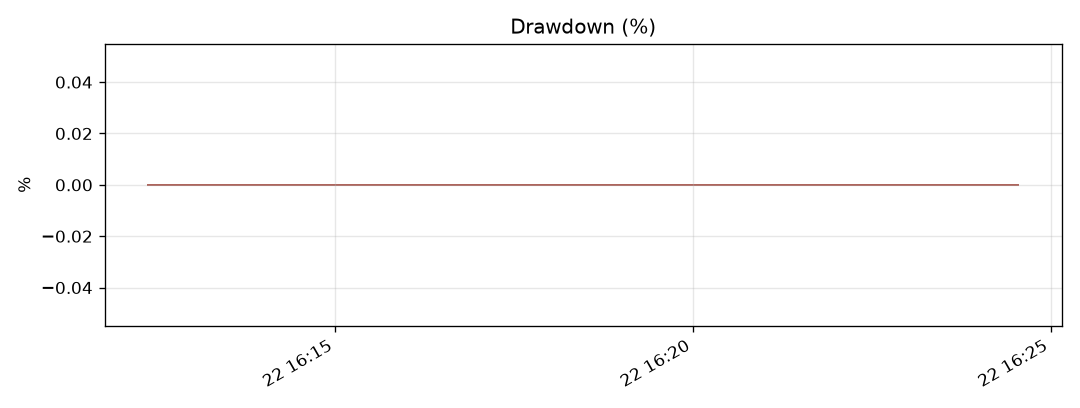
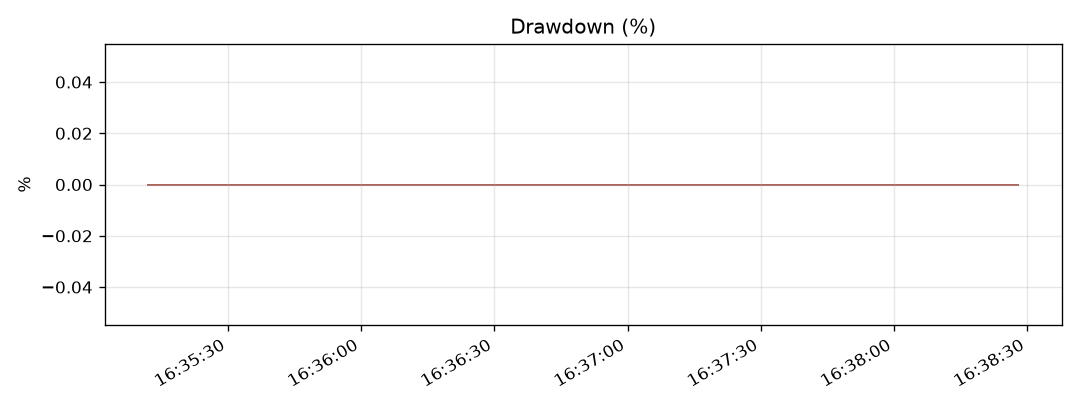
test: record a shadow cycle with public sentiment
Five fallback cycles stayed flat. Fear and Greed printed 68, CoinDesk
and Cointelegraph scored, and CryptoPanic and Reddit failed soft.

diff --git a/STRATEGY.md b/STRATEGY.md
@@ -170,7 +170,7 @@ The report's desk block is PnL after fees (mark-to-market and realized), annuali
 
 Fear & Greed was attached on every bar (lagged, range 53–78). The extreme-greed gate was left off because the ablation did not change a single trade. Walk-forward, frozen parameters, fresh 5,000,000 TMN each fold: +0.136%, −0.154%, −0.153%. Fold deflated-Sharpe probabilities are 0.173, 0.000, and 0.003. The rule does not clear the Bailey and López de Prado hurdle. Parameters were not changed after seeing this. Open buys on the last bar are why mark-to-market PnL is worse than realized PnL. Candle aggregation for BTCTMN matched native hourly closes (median absolute error 0). The series used for the ablation is `results/backtest/fear_greed.json`.
 
-The same day's shadow (`--duration 720 --interval 45`, no API key) ran 15 fallback cycles from 16:12 to 16:24 Asia/Tehran, before the sentiment fields were on the cycle log. No candidate cleared the gates, so there were no orders. Equity stayed 5,000,000 TMN. Median decision latency was 4.3 seconds, mostly the `/v2/depth/all` fetch. The Wallex MCP candle tool responded. Zero errors. A later short shadow records the sentiment payload (Fear & Greed plus which headline sources answered).
+A short shadow the same afternoon (`--duration 200 --interval 45`, no API key) ran five fallback cycles from 16:35 to 16:38 Asia/Tehran. No candidate cleared the gates, so there were no orders. Equity stayed 5,000,000 TMN. Median decision latency was 4.1 seconds. Fear & Greed printed 68 (Greed), up 5 from the prior published point. CoinDesk and Cointelegraph headlines were scored; CryptoPanic and Reddit returned 403 and were skipped. Later cycles reused the 15-minute headline cache. The Wallex MCP candle tool responded. Zero errors.
 
 ## Research, and what was not tuned
 

diff --git a/results/shadow/report.md b/results/shadow/report.md
@@ -9,7 +9,7 @@
 | Sharpe (annualized from the equity spacing) | 0.00 |
 | Max drawdown | 0.000% |
 | Hit rate | 0.0% (0 closed trades) |
-| Decision latency | median 4274 ms, p95 5366 ms (15 cycles) |
+| Decision latency | median 4063 ms, p95 4399 ms (5 cycles) |
 
 | Other | Value |
 | --- | --- |
@@ -18,11 +18,11 @@
 | Average closed-trade PnL | 0 TMN |
 | Fees paid | 0 TMN |
 | Fills | 0 |
-| Decision cycles | 17 |
-| Agent sources | fallback=15 |
+| Decision cycles | 7 |
+| Agent sources | fallback=5 |
 | Logged errors | 0 |
 
-Equity samples: 15.
+Equity samples: 5.
 
 ![Equity](equity.png)
 
